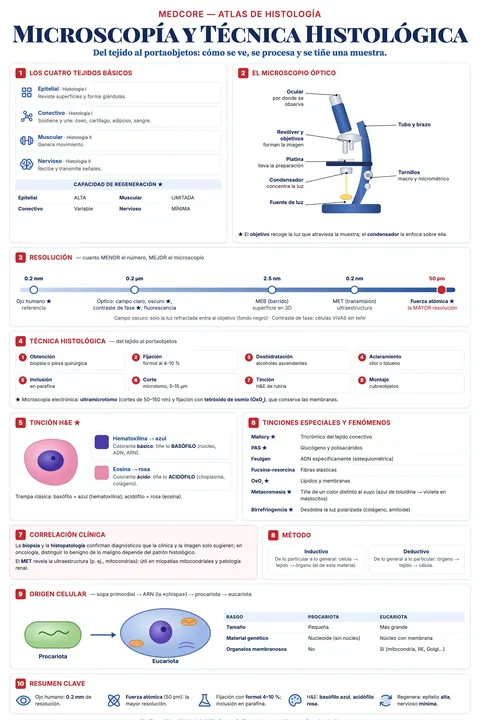
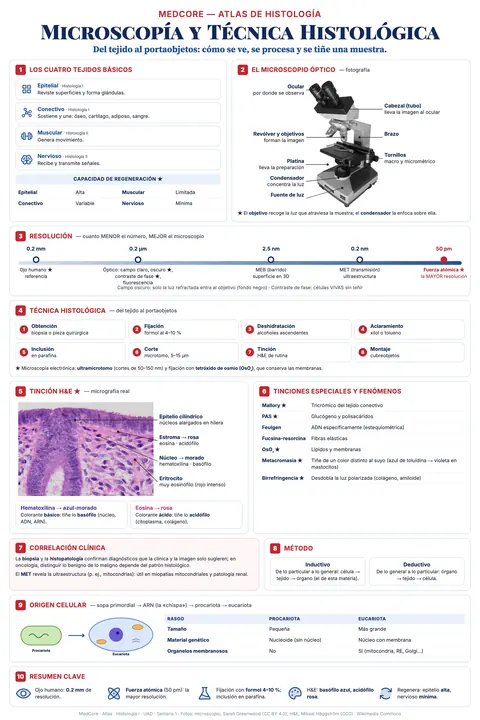
feat(atlas): microscopía con foto real del microscopio y micrografía H&E
La lámina se reconstruye en HTML (no tenía fuente) con el mismo contenido:
el microscopio óptico pasa a una fotografía rotulada (Sarah Greenwood,
CC BY 4.0) y la tinción H&E a una micrografía real de epitelio
endometrial (Mikael Häggström, CC0). Créditos en el pie de la lámina, en
fotos/CREDITOS.md y en Ajustes.

Changed region(s): [[0.0312, 0.0306, 0.9688, 1.0], [0.7812, 0.7639, 0.9375, 0.825], [0.9062, 0.6111, 0.9375, 0.6417]]

diff --git a/docs/atlas-posters/membrana/src/histo-microscopia.html b/docs/atlas-posters/membrana/src/histo-microscopia.html
@@ -1,0 +1,161 @@
+<!DOCTYPE html><html lang="es"><head><meta charset="utf-8"><link rel="stylesheet" href="membrana.css">
+<style>
+svg text { font-family: 'Inter'; }
+.page { gap: 9px; }
+h1 { font-size: 43px; }
+.lst { margin: 0; padding-left: 15px; font-size: 10.3px; }
+.tej { display: flex; flex-direction: column; gap: 6px; }
+.tej div { display: flex; gap: 10px; align-items: center; border: 1px solid var(--line); border-radius: 8px; padding: 6px 10px; font-size: 10.4px; }
+.tej svg.ic { width: 26px; height: 26px; color: var(--blue); flex-shrink: 0; }
+.tej b { color: var(--blue); font-size: 11.5px; }
+.tej small { color: var(--muted); }
+.steps { display: grid; grid-template-columns: repeat(4, 1fr); gap: 6px; }
+.steps div { display: flex; gap: 7px; align-items: center; border: 1px solid var(--line); border-radius: 8px; padding: 6px 8px; font-size: 10px; }
+.steps span.n2 { background: var(--red); color: #fff; border-radius: 50%; min-width: 18px; height: 18px; display: inline-flex; align-items: center; justify-content: center; font-size: 10px; font-weight: 800; }
+.steps b { display: block; font-size: 10.8px; }
+.scale { position: relative; height: 82px; margin: 4px 6px 0; }
+.scale .bar { position: absolute; left: 0; right: 0; top: 34px; height: 8px; border-radius: 4px; background: linear-gradient(90deg, #d5e2f5, #1f4f9c); }
+.scale .pt { position: absolute; top: 0; transform: translateX(-50%); text-align: center; font-size: 10px; width: 150px; }
+.scale .pt b { display: block; font-size: 11px; color: var(--navy); margin-bottom: 9px; }
+.scale .pt i { display: block; width: 14px; height: 14px; border-radius: 50%; background: #fff; border: 2.5px solid var(--navy); margin: 0 auto 8px; }
+.card2 { border: 1px solid var(--line); border-radius: 8px; padding: 7px 10px; font-size: 10.2px; }
+.card2 b.t { display: block; font-size: 11.5px; }
+</style>
+</head><body><div class="page">
+
+<header>
+  <p class="eyebrow">MedCore — Atlas de Histología</p>
+  <h1>Microscopía y Técnica Histológica</h1>
+  <p class="tag">Del tejido al portaobjetos: cómo se ve, se procesa y se tiñe una muestra.</p>
+</header>
+
+<div class="row">
+  <section class="panel" style="flex:.95">
+    <div class="ph"><span class="n">1</span>Los cuatro tejidos básicos</div>
+    <div class="tej">
+      <div>{{icon:SquaresFour}}<span><b>Epitelial</b> <small>· Histología I</small><br>Reviste superficies y forma glándulas.</span></div>
+      <div>{{icon:Graph}}<span><b>Conectivo</b> <small>· Histología I</small><br>Sostiene y une: óseo, cartílago, adiposo, sangre.</span></div>
+      <div>{{icon:Barbell}}<span><b>Muscular</b> <small>· Histología II</small><br>Genera movimiento.</span></div>
+      <div>{{icon:Brain}}<span><b>Nervioso</b> <small>· Histología II</small><br>Recibe y transmite señales.</span></div>
+    </div>
+    <div class="sh" style="margin-top:8px">Capacidad de regeneración ★</div>
+    <table>
+      <tr><td class="k">Epitelial</td><td>Alta</td><td class="k">Muscular</td><td>Limitada</td></tr>
+      <tr><td class="k">Conectivo</td><td>Variable</td><td class="k">Nervioso</td><td>Mínima</td></tr>
+    </table>
+  </section>
+  <section class="panel" style="flex:1.05">
+    <div class="ph"><span class="n">2</span>El microscopio óptico <small>— fotografía</small></div>
+    <script type="auto3d">{"img": "fotos/microscopio.png", "height": 270, "cw": 480, "L": 150, "gap": 36,
+      "labels": {"oc": ["Ocular", "por donde se observa"], "rev": ["Revólver y objetivos", "forman la imagen"], "pla": ["Platina", "lleva la preparación"], "con": ["Condensador", "concentra la luz"], "luz": ["Fuente de luz", ""],
+                 "tubo": ["Cabezal (tubo)", "lleva la imagen al ocular"], "bra": ["Brazo", ""], "tor": ["Tornillos", "macro y micrométrico"]},
+      "side": {"oc": "left", "rev": "left", "pla": "left", "con": "left", "luz": "left", "tubo": "right", "bra": "right", "tor": "right"}}</script>
+    <p style="font-size:10px;margin:2px 0 0">★ El <b>objetivo</b> recoge la luz que atraviesa la muestra; el <b>condensador</b> la enfoca sobre ella.</p>
+  </section>
+</div>
+
+<section class="panel">
+  <div class="ph"><span class="n">3</span>Resolución <small>— cuanto MENOR el número, MEJOR el microscopio</small></div>
+  <div class="scale">
+    <div class="bar"></div>
+    <div class="pt" style="left:4%"><b>0.2 mm</b><i></i>Ojo humano ★<br>referencia</div>
+    <div class="pt" style="left:27%"><b>0.2 µm</b><i></i>Óptico: campo claro, oscuro ★,<br>contraste de fase ★, fluorescencia</div>
+    <div class="pt" style="left:57%"><b>2.5 nm</b><i></i>MEB (barrido)<br>superficie en 3D</div>
+    <div class="pt" style="left:77%"><b>0.2 nm</b><i></i>MET (transmisión)<br>ultraestructura</div>
+    <div class="pt" style="left:96%"><b style="color:var(--red)">50 pm</b><i style="background:var(--red);border-color:var(--red)"></i><span style="color:var(--red);font-weight:700">Fuerza atómica ★</span><br><span style="color:var(--red)">la MAYOR resolución</span></div>
+  </div>
+  <p style="font-size:10px;margin:2px 0 0;text-align:center;color:var(--muted)">Campo oscuro: solo la luz refractada entra al objetivo (fondo negro) · Contraste de fase: células VIVAS sin teñir</p>
+</section>
+
+<section class="panel">
+  <div class="ph"><span class="n">4</span>Técnica histológica <small>— del tejido al portaobjetos</small></div>
+  <div class="steps">
+    <div><span class="n2">1</span><span><b>Obtención</b>biopsia o pieza quirúrgica</span></div>
+    <div><span class="n2">2</span><span><b>Fijación</b>formol al 4–10 %</span></div>
+    <div><span class="n2">3</span><span><b>Deshidratación</b>alcoholes ascendentes</span></div>
+    <div><span class="n2">4</span><span><b>Aclaramiento</b>xilol o tolueno</span></div>
+    <div><span class="n2">5</span><span><b>Inclusión</b>en parafina</span></div>
+    <div><span class="n2">6</span><span><b>Corte</b>microtomo, 5–15 µm</span></div>
+    <div><span class="n2">7</span><span><b>Tinción</b>H&amp;E de rutina</span></div>
+    <div><span class="n2">8</span><span><b>Montaje</b>cubreobjetos</span></div>
+  </div>
+  <p style="font-size:10px;margin:6px 0 0">★ Microscopía electrónica: <b>ultramicrotomo</b> (cortes de 50–150 nm) y fijación con <b>tetróxido de osmio (OsO₄)</b>, que conserva las membranas.</p>
+</section>
+
+<div class="row">
+  <section class="panel" style="flex:1.05">
+    <div class="ph"><span class="n">5</span>Tinción H&amp;E ★ <small>— micrografía real</small></div>
+    <script type="auto3d">{"img": "fotos/he-endometrio.jpg", "height": 200, "cw": 480, "L": 4, "gap": 44,
+      "labels": {"nuc": ["Núcleo → morado", "hematoxilina · basófilo"], "epi": ["Epitelio cilíndrico", "núcleos alargados en hilera"], "est": ["Estroma → rosa", "eosina · acidófilo"], "eri": ["Eritrocito", "muy eosinófilo (rojo intenso)"]},
+      "side": {"nuc": "right", "epi": "right", "est": "right", "eri": "right"}}</script>
+    <div style="display:grid;grid-template-columns:1fr 1fr;gap:6px;margin-top:6px">
+      <div class="card2"><b class="t" style="color:#4b3aa8">Hematoxilina → azul-morado</b>Colorante <b>básico</b>: tiñe lo <b>basófilo</b> (núcleo, ADN, ARN).</div>
+      <div class="card2"><b class="t" style="color:#c2457a">Eosina → rosa</b>Colorante <b>ácido</b>: tiñe lo <b>acidófilo</b> (citoplasma, colágeno).</div>
+    </div>
+  </section>
+  <section class="panel" style="flex:.95">
+    <div class="ph"><span class="n">6</span>Tinciones especiales y fenómenos</div>
+    <table>
+      <tr><td class="k">Mallory ★</td><td>Tricrómico del tejido conectivo</td></tr>
+      <tr><td class="k">PAS ★</td><td>Glucógeno y polisacáridos</td></tr>
+      <tr><td class="k">Feulgen</td><td>ADN específicamente (estequiométrica)</td></tr>
+      <tr><td class="k">Fucsina-resorcina</td><td>Fibras elásticas</td></tr>
+      <tr><td class="k">OsO₄ ★</td><td>Lípidos y membranas</td></tr>
+      <tr><td class="k">Metacromasia ★</td><td>Tiñe de un color distinto al suyo (azul de toluidina → violeta en mastocitos)</td></tr>
+      <tr><td class="k">Birrefringencia ★</td><td>Desdobla la luz polarizada (colágeno, amiloide)</td></tr>
+    </table>
+  </section>
+</div>
+
+<div class="row">
+  <section class="clin" style="flex:1.1">
+    <div class="ph"><span class="n">7</span>Correlación clínica</div>
+    <p style="font-size:10.2px">La <b>biopsia</b> y la <b>histopatología</b> confirman diagnósticos que la clínica y la imagen solo sugieren; en oncología, distinguir lo benigno de lo maligno depende del patrón histológico.</p>
+    <p style="font-size:10.2px;margin:0">El <b>MET</b> revela la ultraestructura (p. ej., mitocondrias): útil en miopatías mitocondriales y patología renal.</p>
+  </section>
+  <section class="panel" style="flex:.9">
+    <div class="ph"><span class="n">8</span>Método</div>
+    <div style="display:grid;grid-template-columns:1fr 1fr;gap:8px;text-align:center">
+      <div class="card2"><b class="t">Inductivo</b>De lo particular a lo general: célula → tejido → órgano (el de esta materia).</div>
+      <div class="card2"><b class="t">Deductivo</b>De lo general a lo particular: órgano → tejido → célula.</div>
+    </div>
+  </section>
+</div>
+
+<section class="panel">
+  <div class="ph"><span class="n">9</span>Origen celular <small>— sopa primordial → ARN (la «chispa») → procariota → eucariota</small></div>
+  <div style="display:flex;gap:18px;align-items:center">
+    <svg viewBox="0 0 520 150" style="width:300px;flex-shrink:0">
+      <rect x="20" y="40" width="150" height="70" rx="35" fill="#cfe8b8" stroke="#6aa84f" stroke-width="3"/>
+      <path d="M50 76 q12 -14 24 0 t24 0 t24 0" fill="none" stroke="#2e7d32" stroke-width="3"/>
+      <text x="95" y="135" font-size="13" font-weight="800" fill="#13295b" text-anchor="middle">Procariota</text>
+      <path d="M195 75 h60 M255 75 l-9 -6 M255 75 l-9 6" stroke="#1f4f9c" stroke-width="3" fill="none"/>
+      <ellipse cx="390" cy="72" rx="118" ry="62" fill="#dbe7fb" stroke="#5b8fd6" stroke-width="3"/>
+      <circle cx="372" cy="72" r="26" fill="#6b5bd6"/><circle cx="378" cy="66" r="6" fill="#2d1f7a"/>
+      <ellipse cx="452" cy="44" rx="20" ry="9" fill="#f2b45c" stroke="#b8650f" stroke-width="1.5"/>
+      <ellipse cx="318" cy="98" rx="18" ry="8" fill="#f2b45c" stroke="#b8650f" stroke-width="1.5"/>
+      <path d="M432 92 q14 -8 28 0 M432 100 q14 -8 28 0" fill="none" stroke="#8a63c0" stroke-width="2"/>
+      <text x="390" y="148" font-size="13" font-weight="800" fill="#13295b" text-anchor="middle">Eucariota</text>
+    </svg>
+    <table style="flex:1">
+      <tr><th>Rasgo</th><th>Procariota</th><th>Eucariota</th></tr>
+      <tr><td class="k">Tamaño</td><td>Pequeña</td><td>Más grande</td></tr>
+      <tr><td class="k">Material genético</td><td>Nucleoide (sin núcleo)</td><td>Núcleo con membrana</td></tr>
+      <tr><td class="k">Organelos membranosos</td><td>No</td><td>Sí (mitocondria, RE, Golgi…)</td></tr>
+    </table>
+  </div>
+</section>
+
+<section class="panel">
+  <div class="ph"><span class="n">10</span>Resumen clave</div>
+  <div class="sum">
+    <div>{{icon:Eye}}<span>Ojo humano: <b>0.2 mm</b> de resolución.</span></div>
+    <div>{{icon:Atom}}<span><b>Fuerza atómica</b> (50 pm): la mayor resolución.</span></div>
+    <div>{{icon:Flask}}<span>Fijación con <b>formol 4–10 %</b>; inclusión en parafina.</span></div>
+    <div>{{icon:Palette}}<span>H&amp;E: <b>basófilo azul, acidófilo rosa</b>.</span></div>
+    <div>{{icon:ArrowsClockwise}}<span>Regenera: epitelio <b>alta</b>, nervioso <b>mínima</b>.</span></div>
+  </div>
+</section>
+
+<p class="foot">MedCore · Atlas · Histología I · UAD · Semana 1 · Fotos: microscopio, Sarah Greenwood (CC BY 4.0); H&amp;E, Mikael Häggström (CC0) · Wikimedia Commons</p>
+</div></body></html>

diff --git a/src/pages/Ajustes.tsx b/src/pages/Ajustes.tsx
@@ -146,6 +146,18 @@ export function Ajustes() {
             </a>
             ; las imágenes renderizadas a partir de ellos se comparten con la misma licencia.
           </p>
+          <p className="text-[0.9375rem] text-zinc-700 leading-relaxed mt-3">
+            Algunas láminas de Histología incluyen fotografías y micrografías de{' '}
+            <a
+              href="https://commons.wikimedia.org"
+              target="_blank"
+              rel="noopener noreferrer"
+              className="text-primary underline underline-offset-2 hover:text-primary-hover"
+            >
+              Wikimedia Commons
+            </a>
+            ; cada lámina cita al autor y la licencia de sus imágenes al pie.
+          </p>
         </section>
       </div>
     </main>

diff --git a/docs/atlas-posters/membrana/fotos/CREDITOS.md b/docs/atlas-posters/membrana/fotos/CREDITOS.md
@@ -1,0 +1,6 @@
+# Fotos de Wikimedia Commons usadas en las láminas
+
+| Archivo | Fuente | Autor | Licencia |
+|---|---|---|---|
+| microscopio.png | [Compound Microscope.png](https://commons.wikimedia.org/wiki/File:Compound_Microscope.png) (recortado y reducido) | Sarah Greenwood | CC BY 4.0 |
+| he-endometrio.jpg | [Histology of normal simple columnar epithelium of the endometrium.jpg](https://commons.wikimedia.org/wiki/File:Histology_of_normal_simple_columnar_epithelium_of_the_endometrium.jpg) | Mikael Häggström | CC0 |
